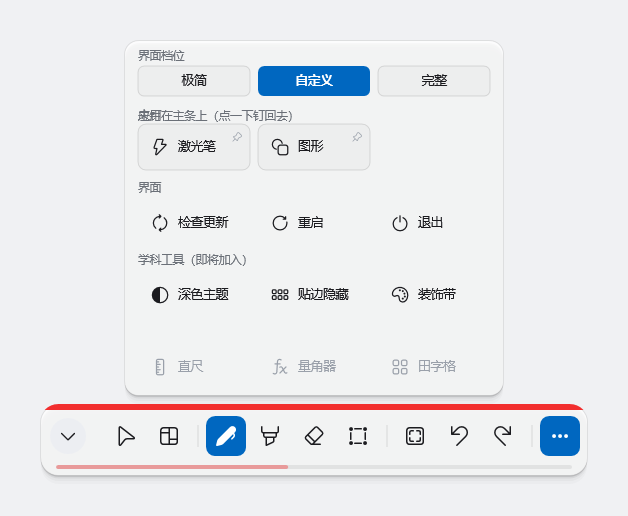
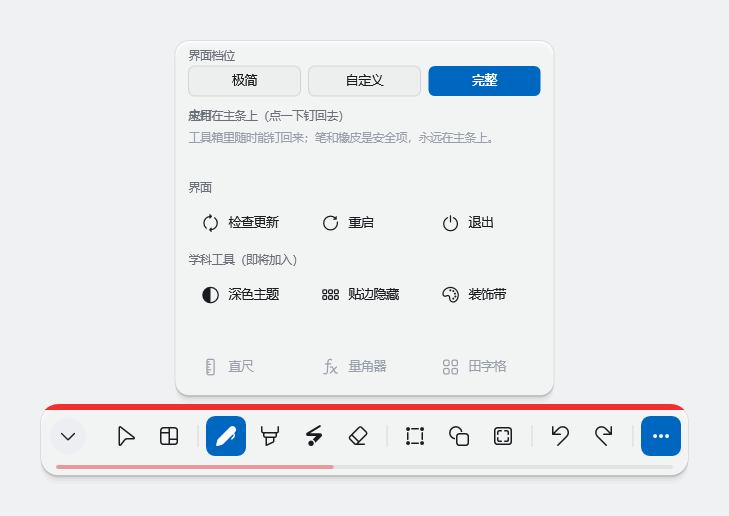
极简档补成六格（加鼠标与后撤），顺序改成从完整档过滤
用户指出极简版没有鼠标 —— 确实漏了：看 PPT 时要能点下层（链接/翻页/按钮），没有它每次都得切档或用热键。顺带把后撤也补上：误画一笔要有救，而『清空可撤销』救不了这个（擦掉是改文档，撤销是回到上一步）。极简档变成 [鼠标][白板][笔][橡皮][后撤][更多]，宽 333（原四格 245）。

顺序按用户建议改成『参考完整档』，而且写成硬约束：极简档只声明钉哪几个（集合），顺序由 AllToolsIndex 过滤得出 —— 同一个工具在两档里的相对位置自动一致，不靠手抄。自检加了一条『极简档的顺序必须是完整档顺序的子序列』。

另修一处顺序初始化 bug：St() 的 Profile 赋值把 Mini 覆盖了，导致截图里 mini:true 出来还是完整档。自检 27 项全过。

diff --git a/tools/ui-mock/UiTests.cs b/tools/ui-mock/UiTests.cs
@@ -279,20 +279,35 @@ internal static class UiTests
             return null;
         });
 
-        Check("极简档 = 笔 / 橡皮 / 白板 / 更多", () =>
+        Check("极简档 = 鼠标 / 白板 / 笔 / 橡皮 / 后撤 / 更多", () =>
         {
             var vis = PanelDraw.VisibleTools(new PanelState { Mini = true });
-            if (vis.Length != 4) return $"可见工具数是 {vis.Length}，应为 4";
-            if (vis[0] != PanelDraw.ToolPen) return "第一格不是笔";
-            if (vis[1] != PanelDraw.ToolEraser) return "第二格不是橡皮";
-            if (vis[2] != PanelDraw.ToolBoard) return "第三格不是白板";
-            if (vis[3] != PanelDraw.ToolMore) return "第四格不是更多";
+            var want = new[] { PanelDraw.ToolMouse, PanelDraw.ToolBoard, PanelDraw.ToolPen,
+                               PanelDraw.ToolEraser, PanelDraw.ToolUndo, PanelDraw.ToolMore };
+            if (vis.Length != want.Length) return $"可见工具数是 {vis.Length}，应为 {want.Length}";
+            for (int i = 0; i < want.Length; i++)
+                if (vis[i] != want[i]) return $"第 {i + 1} 格是「{PanelDraw.Tools[vis[i]].Name}」，应为「{PanelDraw.Tools[want[i]].Name}」";
+            return null;
+        });
+
+        Check("极简档的顺序必须是完整档顺序的子序列", () =>
+        {
+            // 这条是"两档相对位置一致"的硬约束：同一个人在两档之间切换，不用重新记位置。
+            var mini = PanelDraw.VisibleTools(new PanelState { Mini = true });
+            var full = PanelDraw.VisibleTools(new PanelState { Mini = false });
+            int j = 0;
+            foreach (int t in mini)
+            {
+                while (j < full.Length && full[j] != t) j++;
+                if (j >= full.Length) return $"「{PanelDraw.Tools[t].Name}」在完整档里的位置排在极简档之前（顺序不一致）";
+                j++;
+            }
             return null;
         });
 
         Check("三个界面档位：项数与宽度都对得上", () =>
         {
-            var expect = new[] { 4, 12, 12 };          // 极简 / 自定义（默认=全部）/ 完整
+            var expect = new[] { 6, 12, 12 };          // 极简 / 自定义（默认=全部）/ 完整
             for (int p = 0; p < PanelDraw.Profiles.Length; p++)
             {
                 var st = new PanelState { Profile = p, Slim = true, E = 1 };

diff --git a/tools/ui-mock/Program.cs b/tools/ui-mock/Program.cs
@@ -265,7 +265,7 @@ internal static class Program
             ("20-瘦身档-橡皮",         St(rail: 1, tool: 4, eraser: 1, groove: 1, slim: true), false, 0, 0),
             ("21-瘦身档-贴PPT",        St(tool: 1, color: 0, slim: true),            true, 900, 420),
             ("22-更多抽屉",            St(tool: 1, color: 0, more: true),            false, 0, 0),
-            ("23-极简档-笔（4 格含白板）", St(tool: 2, color: 0, mini: true, rail: 1), false, 0, 0),
+            ("23-极简档-笔（6 格）", St(tool: 2, color: 0, mini: true, rail: 1), false, 0, 0),
             ("24-极简档-橡皮",         St(tool: 5, color: 0, mini: true, rail: 1, eraser: 1, groove: 1), false, 0, 0),
             ("25-极简档-更多（含三档切换）", St(tool: 2, color: 0, mini: true, more: true), false, 0, 0),
             ("26-白板-开着（盖住 PPT）", St(tool: 1, color: 0, board: true, boardColor: 0), true, 900, 420),
@@ -325,12 +325,12 @@ internal static class Program
             ClearHold = hold, ActionFlash = flash,
             Slim = slim,
             MoreOpen = more,
-            Mini = mini,
             BoardOn = board, BoardColor = boardColor,
             Profile = (unpin != null) ? PanelDraw.ProfileCustom : PanelDraw.ProfileFull,
             CustomTools = (unpin != null)
                 ? Array.FindAll(PanelDraw.AllToolsIndex, x => Array.IndexOf(unpin, x) < 0)
                 : PanelDraw.AllToolsIndex,
+            Mini = mini,   // ← 必须最后设：mini:true 时要盖过上面的 Profile
         };
 
     // =====================================================================

diff --git a/tools/ui-mock/PanelDraw.cs b/tools/ui-mock/PanelDraw.cs
@@ -32,8 +32,15 @@ internal static class PanelDraw
                      ToolEraser = 5, ToolSelect = 6, ToolShapes = 7, ToolCapture = 8,
                      ToolUndo = 9, ToolRedo = 10, ToolMore = 11;
 
-    /// <summary>极简档：笔 / 橡皮 / 白板 ＋ 一个永远的"更多"（下标是 Tools 里的原始下标）。</summary>
-    public static readonly int[] MiniTools = { ToolPen, ToolEraser, ToolBoard, ToolMore };
+    /// <summary>
+    /// 极简档"钉哪几个"（一个**集合**，不是顺序）。
+    /// 顺序由 <see cref="MiniTools"/> 从完整档的顺序里**过滤**出来 ——
+    /// 这样"同一个工具在两档里相对位置一致"是自动成立的，不是靠人手抄一遍。
+    /// </summary>
+    static readonly int[] MiniSet = { ToolMouse, ToolBoard, ToolPen, ToolEraser, ToolUndo, ToolMore };
+
+    /// <summary>极简档实际显示的顺序＝完整顺序过滤（鼠标/白板/笔/橡皮/后撤/更多）。</summary>
+    public static int[] MiniTools => Array.FindAll(AllToolsIndex, x => Array.IndexOf(MiniSet, x) >= 0);
 
     /// <summary>完整档：全部工具。</summary>
     public static int[] FullTools => AllToolsIndex;

diff --git a/调研-界面-档位.md b/调研-界面-档位.md
@@ -10,29 +10,49 @@
 
 | 你问的 | 答案 |
 |---|---|
-| 极简档要不要放白板 | **要**。极简变成 `[笔][橡皮][白板][更多]` 四格，宽 **245**（屏宽 17%）。白板是讲课刚需（一节课要切几次），藏起来等于每次多两步 |
+| 极简档放什么 | **六格**：`[鼠标][白板][笔][橡皮][后撤][更多]`，宽 **333**（屏宽 23%）。白板、鼠标、后撤都是"缺了就不完整"的东西（见第二节） |
 | 档位做几档 | **三档**，但不是"三个预设"，而是 **两个我们定的 ＋ 一个你自己的**：`极简 / 自定义 / 完整` |
 | 能不能在「更多」里切 | **能，而且已经做了**：抽屉最上面一组就是三档切换器；**同时保留热键**（讲课时不该为了切档先开抽屉） |
 
 ---
 
-## 一、极简档放什么（四格）
+## 一、极简档放什么（六格）
 
 ```
-[收起格] [笔] [橡皮] [白板] [更多]        宽 245（屏宽 17%）
+[收起格] [鼠标] [白板] [笔] [橡皮] [后撤] [更多]        宽 333（屏宽 23%）
 ```
 
 | 格 | 为什么留它 |
 |---|---|
+| **鼠标** | **看 PPT 时要能点下层**（点链接、翻页、点按钮）。没有它，老师每次都得切完整档或用热键 —— 这是第一版漏掉的最大一块 |
+| **白板** | 讲课刚需：讲题切白板、讲完切回 PPT。藏进抽屉的话每次都要两步 |
 | 笔 | 极简版的第一职责 |
 | 橡皮 | 第二职责（上带里还有"整笔擦 / 面积擦 / 清空"） |
-| **白板** | 讲课刚需：讲题切白板、讲完切回 PPT。藏进抽屉的话每次都要两步 |
+| **后撤** | **误画一笔要有救**。注意"清空可撤销"救不了这个 —— 那是两件事：擦掉是"改文档"，撤销是"回到上一步" |
 | 更多 | 入口（里面的东西和完整版完全一样） |
 
-**没放的**：鼠标（穿透）、荧光笔、激光笔、选择、图形、截屏、后撤、重做。
-理由：极简版的价值是"几乎不占地方"，这些要么低频、要么在完整版里有更好的位置。
-**唯一有点可惜的是"后撤"**——但清空可以在橡皮的上带里撤销回来（清空是可撤销的），
-加上后撤就变 5 格（宽 289），这条留给你定。
+**没放的**：荧光笔、激光笔、选择、图形、截屏、重做。
+理由：这些要么低频（荧光笔/激光笔/选择/图形/截屏），要么在完整版里有更好的位置（重做）。
+
+**想更窄的话，砍的顺序建议**：先砍 `后撤`（变 5 格、289）→ 再砍 `鼠标`（变 4 格、245）——
+但每砍一个，就多一个"必须切档才能做"的动作，所以默认建议留着。
+
+### 顺序：极简档的顺序是"完整档顺序过滤出来的"
+
+这是用户提的（"排布顺序参考完整版"），我把它写成了代码上的**硬约束**：
+
+```csharp
+static readonly int[] MiniSet = { ToolMouse, ToolBoard, ToolPen, ToolEraser, ToolUndo, ToolMore };
+public static int[] MiniTools => Array.FindAll(AllToolsIndex, x => Array.IndexOf(MiniSet, x) >= 0);
+```
+
+**极简档只声明"钉哪几个"，顺序由完整档过滤出来** —— 所以"同一个工具在两档里相对位置一致"
+是**自动成立**的，不靠人手抄一遍（手抄迟早会不一致）。自检里专门有一条查这个
+（"极简档的顺序必须是完整档顺序的子序列"）。
+
+好处很直接：一个人在两档之间切换时，**笔永远在同一个相对位置**，不用重新记。
+代价是极简档里"白板"排在"笔"前面（因为完整档里"画布模式"组就是排在最前面）——
+这是有意的：**鼠标/白板是"模式"，笔/橡皮是"工具"，模式在前**。
 
 ---
 

diff --git a/README.md b/README.md
@@ -86,6 +86,10 @@
 在主条按钮上**右键 = 取消钉住**；笔/橡皮/更多是安全项取消不了。
 一改钉住集合，档位自动进"自定义"、并按规范顺序重排。自检 **26 项**全过。
 截屏图标的备选见 [design/界面-设计稿v9-截屏图标.png](design/界面-设计稿v9-截屏图标.png)。
+**极简档补成六格**：`[鼠标][白板][笔][橡皮][后撤][更多]`，宽 **333**（原来四格 245）——
+补上"鼠标"是因为看 PPT 时要能点下层，补"后撤"是因为误画一笔要有救。
+并且**极简档的顺序改成"从完整档顺序过滤出来"**（代码上是硬约束，自检有专项断言），
+所以同一个工具在两档里的相对位置自动一致。自检 **27 项**全过。
 
 > **两轮"减法"（2026-09-14）**：
 > 1. **手写美化整层删除**（`src/InkEngine.Optimize`：1€ 滤波、RDP 抽稀、贝塞尔拟合、
